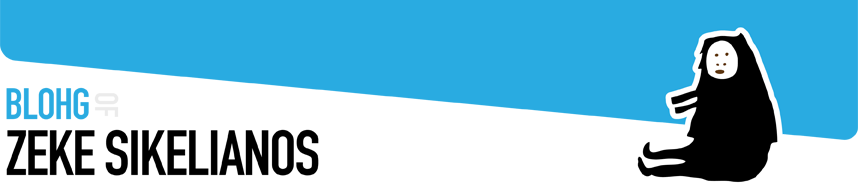
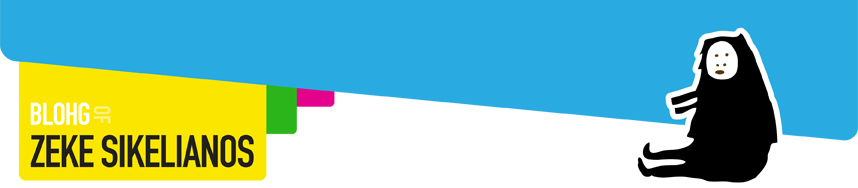
New header and playing around with styles

diff --git a/wp-content/themes/zeke/style.css b/wp-content/themes/zeke/style.css
@@ -80,8 +80,11 @@ h2.pagetitle {
 	}
 
 #sidebar h2 {
+  color: #A67C52;
+	margin: 5px 0 0;
+	padding: 0;
 	font-family: Georgia, "Times New Roman", serif;
-	}
+}
 
 h3 {
 	font-size: 1.3em;
@@ -100,8 +103,13 @@ h2, h2 a, h2 a:hover, h2 a:visited, h3, h3 a, h3 a:hover, h3 a:visited, #sidebar
 	text-decoration: none;
 	}
 
-.entry p a:visited {
-	color: #29ABE2;
+.entry p {
+	color: #666;
+	}
+
+.entry p a {
+  background-color: #FCE600;
+	color: #000;
 	}
 
 .commentlist li, #commentform input, #commentform textarea {
@@ -293,7 +301,7 @@ h1 {
 	}
 
 h2 {
-	margin: 30px 0 0;
+	margin: 0px 0 0;
 	}
 
 h2.pagetitle {
@@ -301,10 +309,6 @@ h2.pagetitle {
 	text-align: center;
 }
 
-#sidebar h2 {
-	margin: 5px 0 0;
-	padding: 0;
-	}
 
 h3 {
 	padding: 0;
@@ -684,6 +688,7 @@ ul#stalkme li a {
   color: #754C24;
   line-height: 1.4em;
   margin-top: 15px;
+  font-size: 1.3em;
 }
 
 img.heading {
